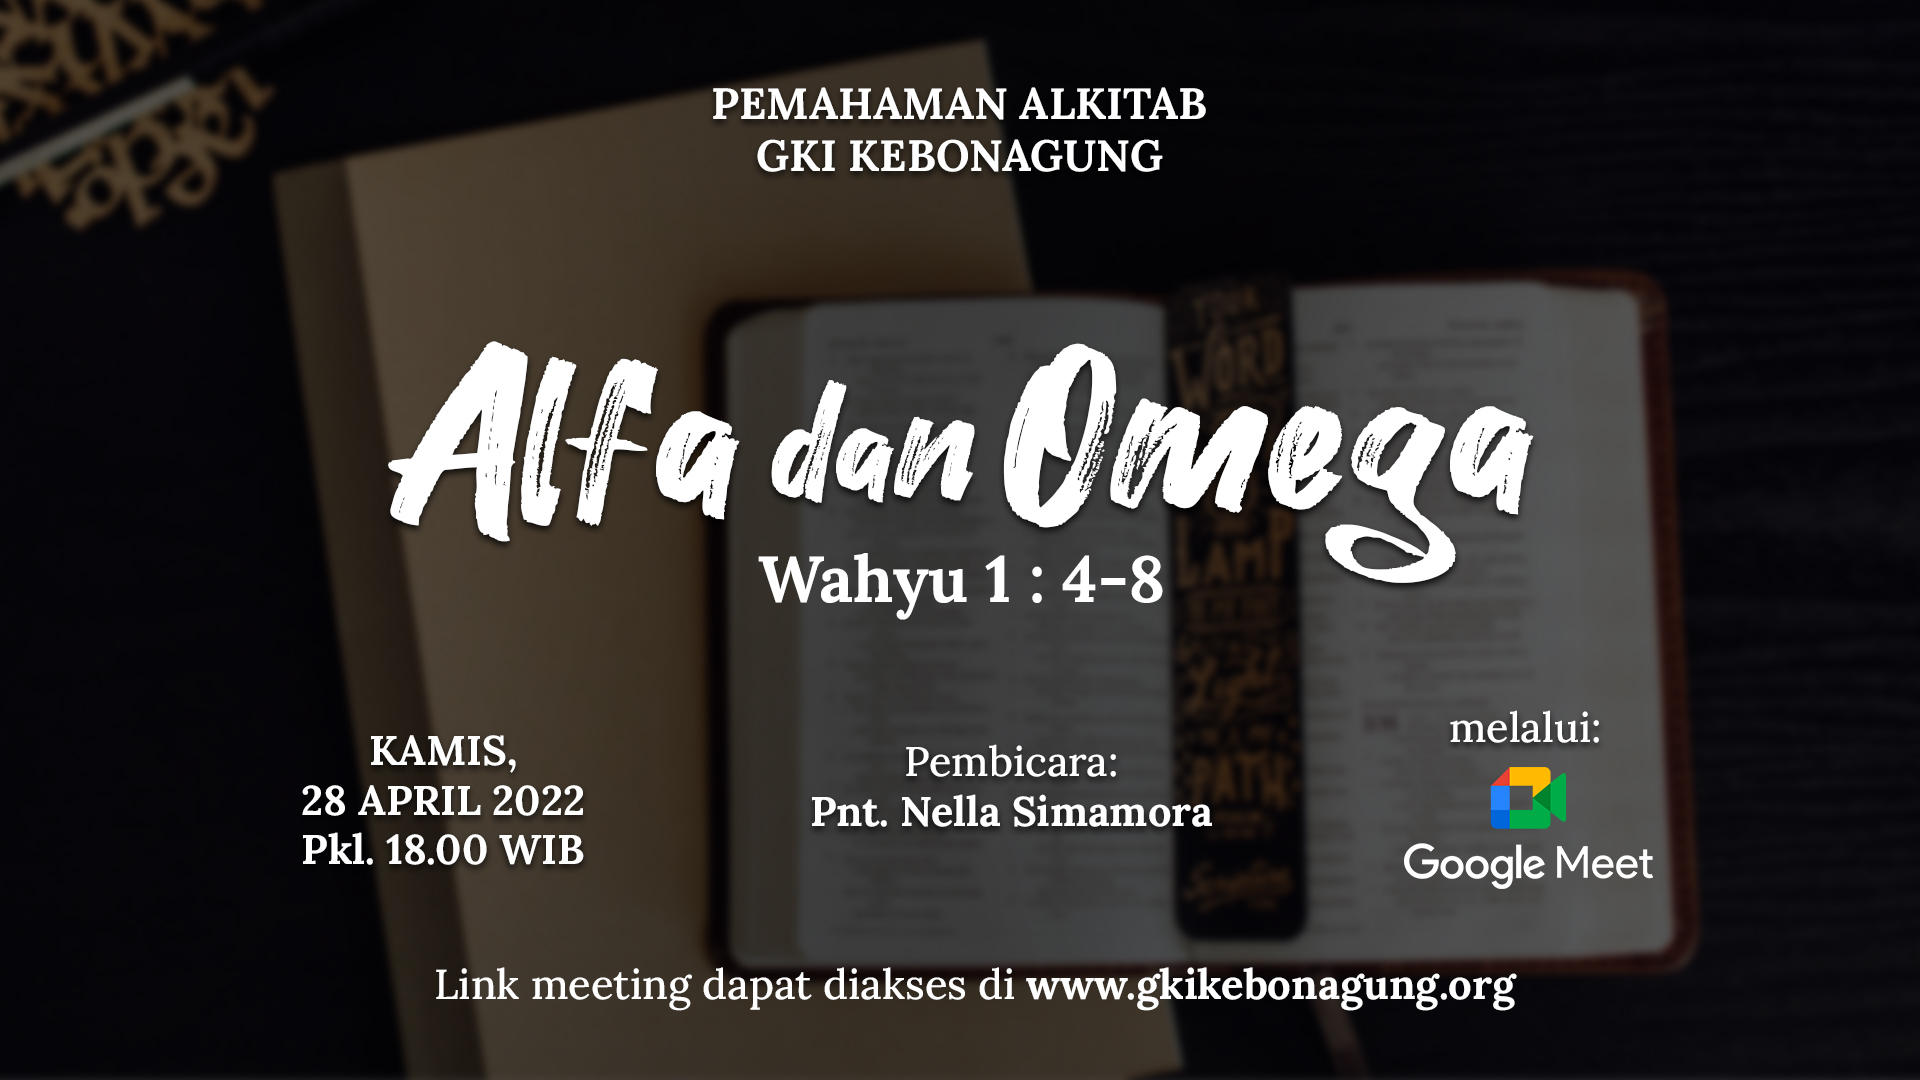
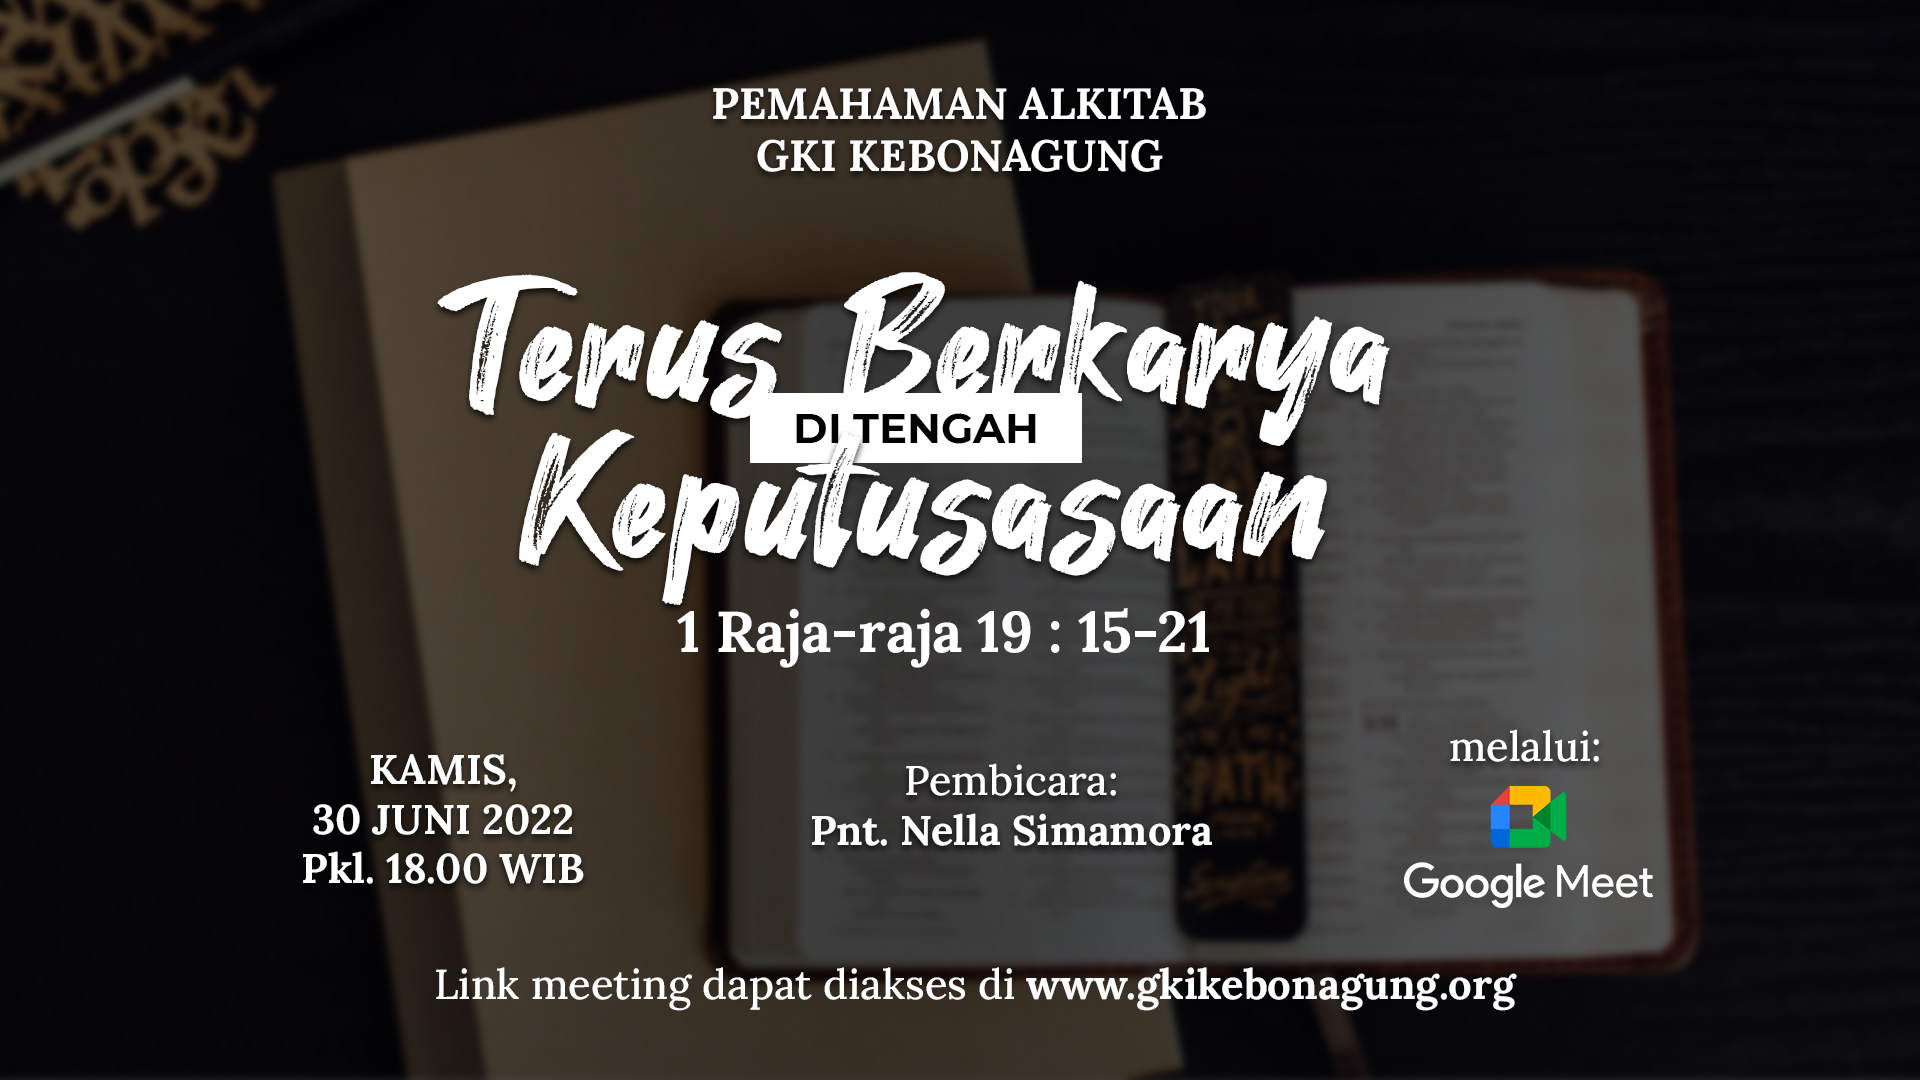
1

diff --git a/application/views/Front/vLandingpage.php b/application/views/Front/vLandingpage.php
@@ -114,18 +114,18 @@
                     <div class="mt-5">
                         <div class="card text-center shadow mx-3">
                             <!-- UBAH -->
-                            <a href="https://youtu.be/8_paroErErs" target="_blank" class="text-decoration-none">
+                            <a href="https://youtu.be/Pu0weQezat4" target="_blank" class="text-decoration-none">
                                 <img src="<?= base_url() ?>front/assets/img/umum.jpg" class="card-img-top">
                             </a>
                             <div class="card-body">
                                 <h4 class="card-title">Ibadah Umum</h4>
                                 <!-- UBAH -->
-                                <p class="card-text">"Kuasa Kristus Membawa Perubahan"<br>Minggu, 19 Juni 2022 - 07.00 WIB<br>Pnt. Nella Simamora</p>
+                                <p class="card-text">"Tuhan, Aku Ingin Mengikut Engkau"<br>Minggu, 26 Juni 2022 - 07.00 WIB<br>Pnt. Nella Simamora</p>
                             </div>
                             <div class="card-body">
                                 <!-- UBAH -->
                                 <a href="<?= base_url() ?>Fronts/pilihOnsite" class="btn btn-primary mb-2 px-5 mx-1" style="border-radius: 10rem; font-size: 11pt">Onsite</a>
-                                <a href="https://youtu.be/8_paroErErs" target="_blank" class="btn btn-primary mb-2 px-5 mx-1" style="border-radius: 10rem; font-size: 11pt">Online</a>
+                                <a href="https://youtu.be/Pu0weQezat4" target="_blank" class="btn btn-primary mb-2 px-5 mx-1" style="border-radius: 10rem; font-size: 11pt">Online</a>
                             </div>
                         </div>
                     </div>
@@ -159,7 +159,7 @@
                             <div class="card-body">
                                 <h4 class="card-title">Persekutuan KPR</h4>
                                 <!-- UBAH -->
-                                <p class="card-text">"Ikhlas Berbagi"<br>Minggu, 19 Juni 2022 - 16.00 WIB<br>Bpk. Sugianto</p>
+                                <p class="card-text">"Berbagi Injil Bukan Kristenisasi"<br>Minggu, 26 Juni 2022 - 16.00 WIB<br>Pnt. Nella Simamora</p>
                             </div>
                             <div class="card-body">
                                 <!-- UBAH -->
@@ -168,21 +168,21 @@
                         </div>
                     </div>
                 </div>
-                <div class="col-lg-4 text-center d-none">
+                <div class="col-lg-4 text-center">
                     <div class="mt-5">
                         <div class="card text-center shadow mx-3">
                             <!-- UBAH -->
-                            <a href="https://meet.google.com/sxd-umed-hra" target="_blank" class="text-decoration-none">
+                            <a href="https://meet.google.com/aey-kpjc-mdi" target="_blank" class="text-decoration-none">
                                 <img src="<?= base_url() ?>front/assets/img/pa.jpg" class="card-img-top">
                             </a>
                             <div class="card-body">
                                 <h4 class="card-title">Pemahaman Alkitab</h4>
                                 <!-- UBAH -->
-                                <p class="card-text">"Alfa dan Omega"<br>Kamis, 28 April 2022 - 18.00 WIB <br>Pnt. Nella Simamora</p>
+                                <p class="card-text">"Terus Berkarya di Tengah Keputusasaan"<br>Kamis, Juni 2022 - 18.00 WIB <br>Pnt. Nella Simamora</p>
                             </div>
                             <div class="card-body">
                                 <!-- UBAH -->
-                                <a href="https://meet.google.com/sxd-umed-hra" target="_blank" class="btn btn-primary mb-2 px-5" style="border-radius: 10rem; font-size: 11pt">Link</a>
+                                <a href="https://meet.google.com/aey-kpjc-mdi" target="_blank" class="btn btn-primary mb-2 px-5" style="border-radius: 10rem; font-size: 11pt">Link</a>
                             </div>
                         </div>
                     </div>
@@ -274,7 +274,7 @@
                         <div class="mb-2"><i class="bi bi-file-earmark-text fs-1 text-primary"></i></div>
                         <h3 class="h4 mb-2">Warta Jemaat</h3>
                         <!-- UBAH -->
-                        <a class="text-decoration-none" href="<?= base_url() ?>front/assets/docs/warta.docx" download="Warta Jemaat 12 Juni 2022">
+                        <a class="text-decoration-none" href="<?= base_url() ?>front/assets/docs/warta.docx" download="Warta Jemaat 19 Juni 2022">
                             <span class="h6 text-light"><i class="bi bi-download fs-4 mx-1"></i>
                                 Download
                             </span>
